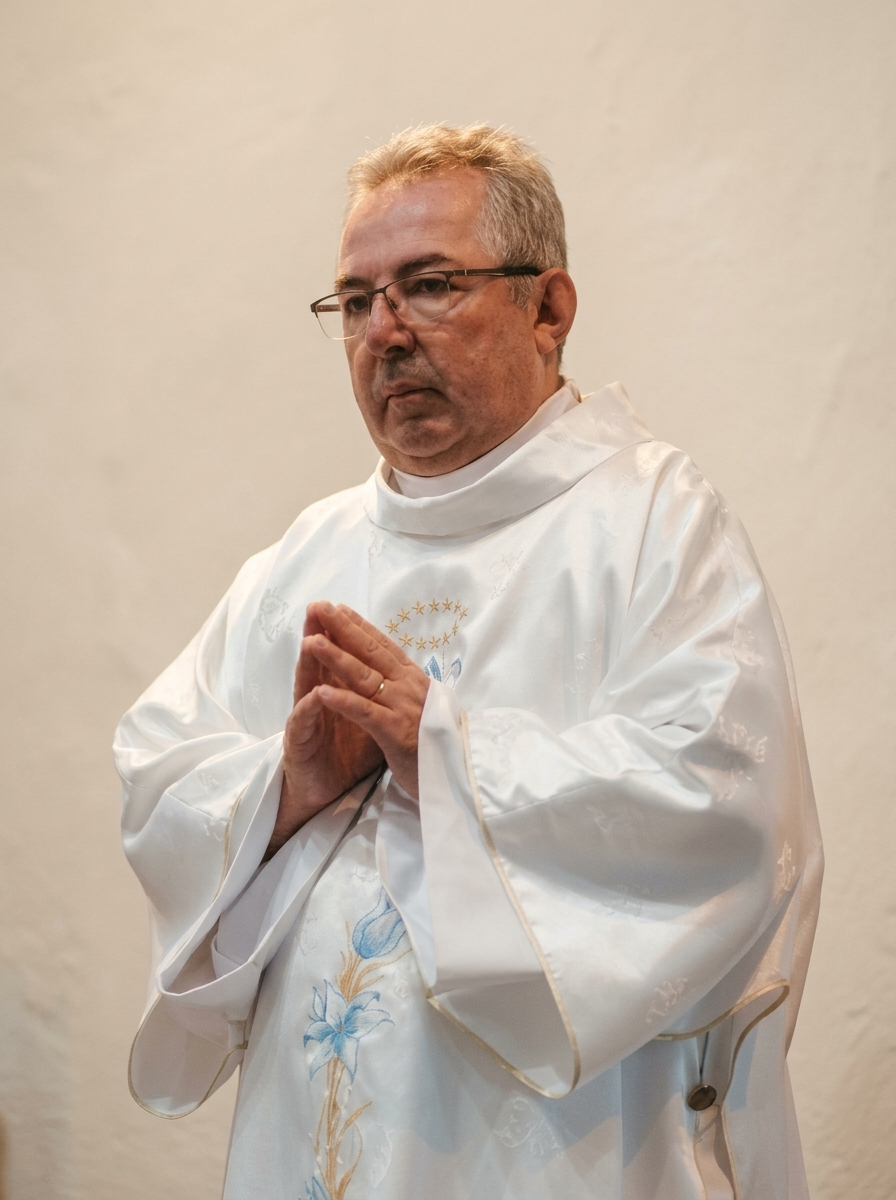
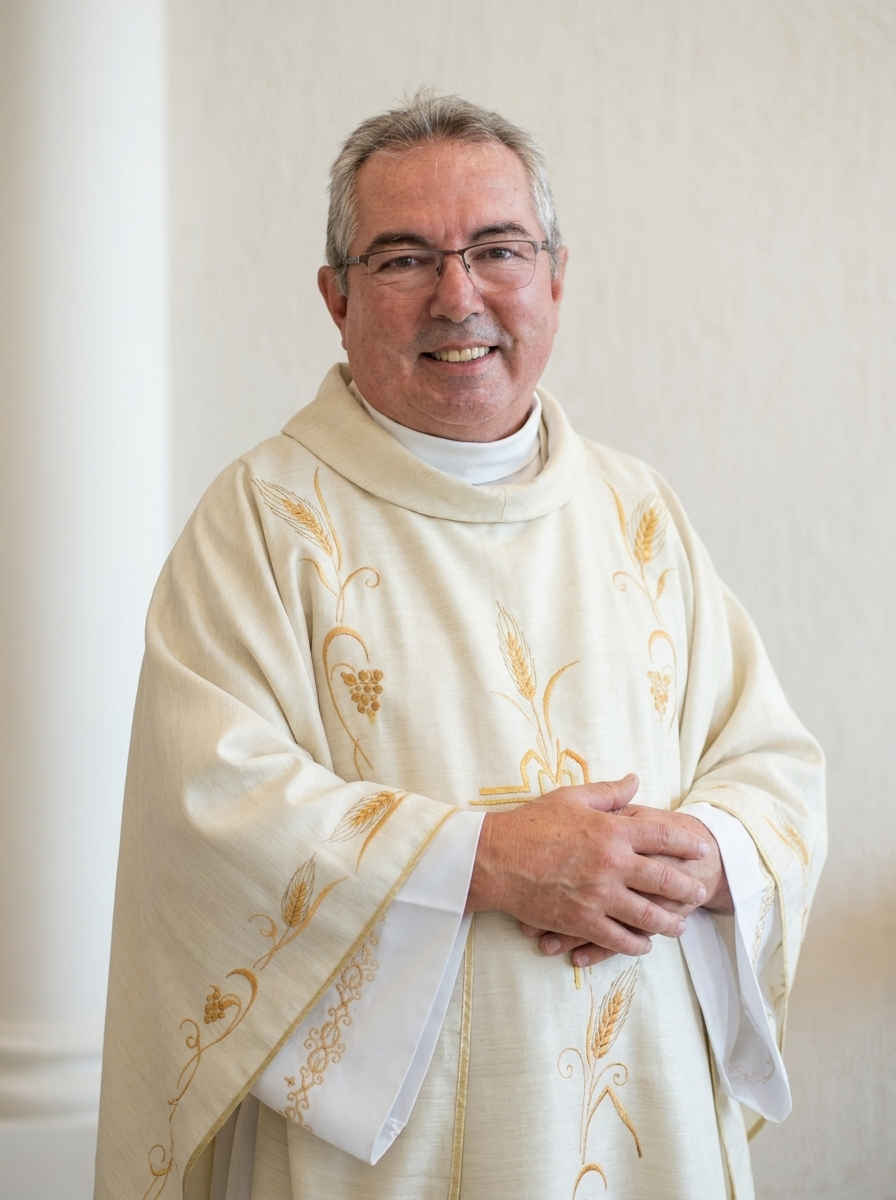
UPLOAD FOTOS

diff --git a/src/routes/a-paroquia.tsx b/src/routes/a-paroquia.tsx
@@ -52,21 +52,21 @@ const clergy = [
     role: "Pároco",
     name: "Pe. Valter Antônio Brandão",
     note: "Nascimento: 26/02/1969 - Ordenação: 14/01/1996",
-    image: "/pe.%20valter.jpg",
+    image: "/PE%20VALTER.jpg",
   },
   {
     id: "diacono-sergio",
     role: "Diácono",
     name: "Sérgio Luiz Rodrigues",
     note: "Nascimento: 26/07/1965 - Ordenação: 02/10/2015",
-    image: "/diac.%20s%C3%A9rgio.png",
+    image: "/DIAC%20SERGIO.jpg",
   },
   {
     id: "diacono-leocir",
     role: "Diácono",
     name: "Leocir da Silva",
     note: "Nascimento: 08/04/1962 - Ordenação: 18/08/2024",
-    image: "/diac.%20leocir.jpg",
+    image: "/DIAC%20LEOCIR.jpg",
   },
 ];
 
